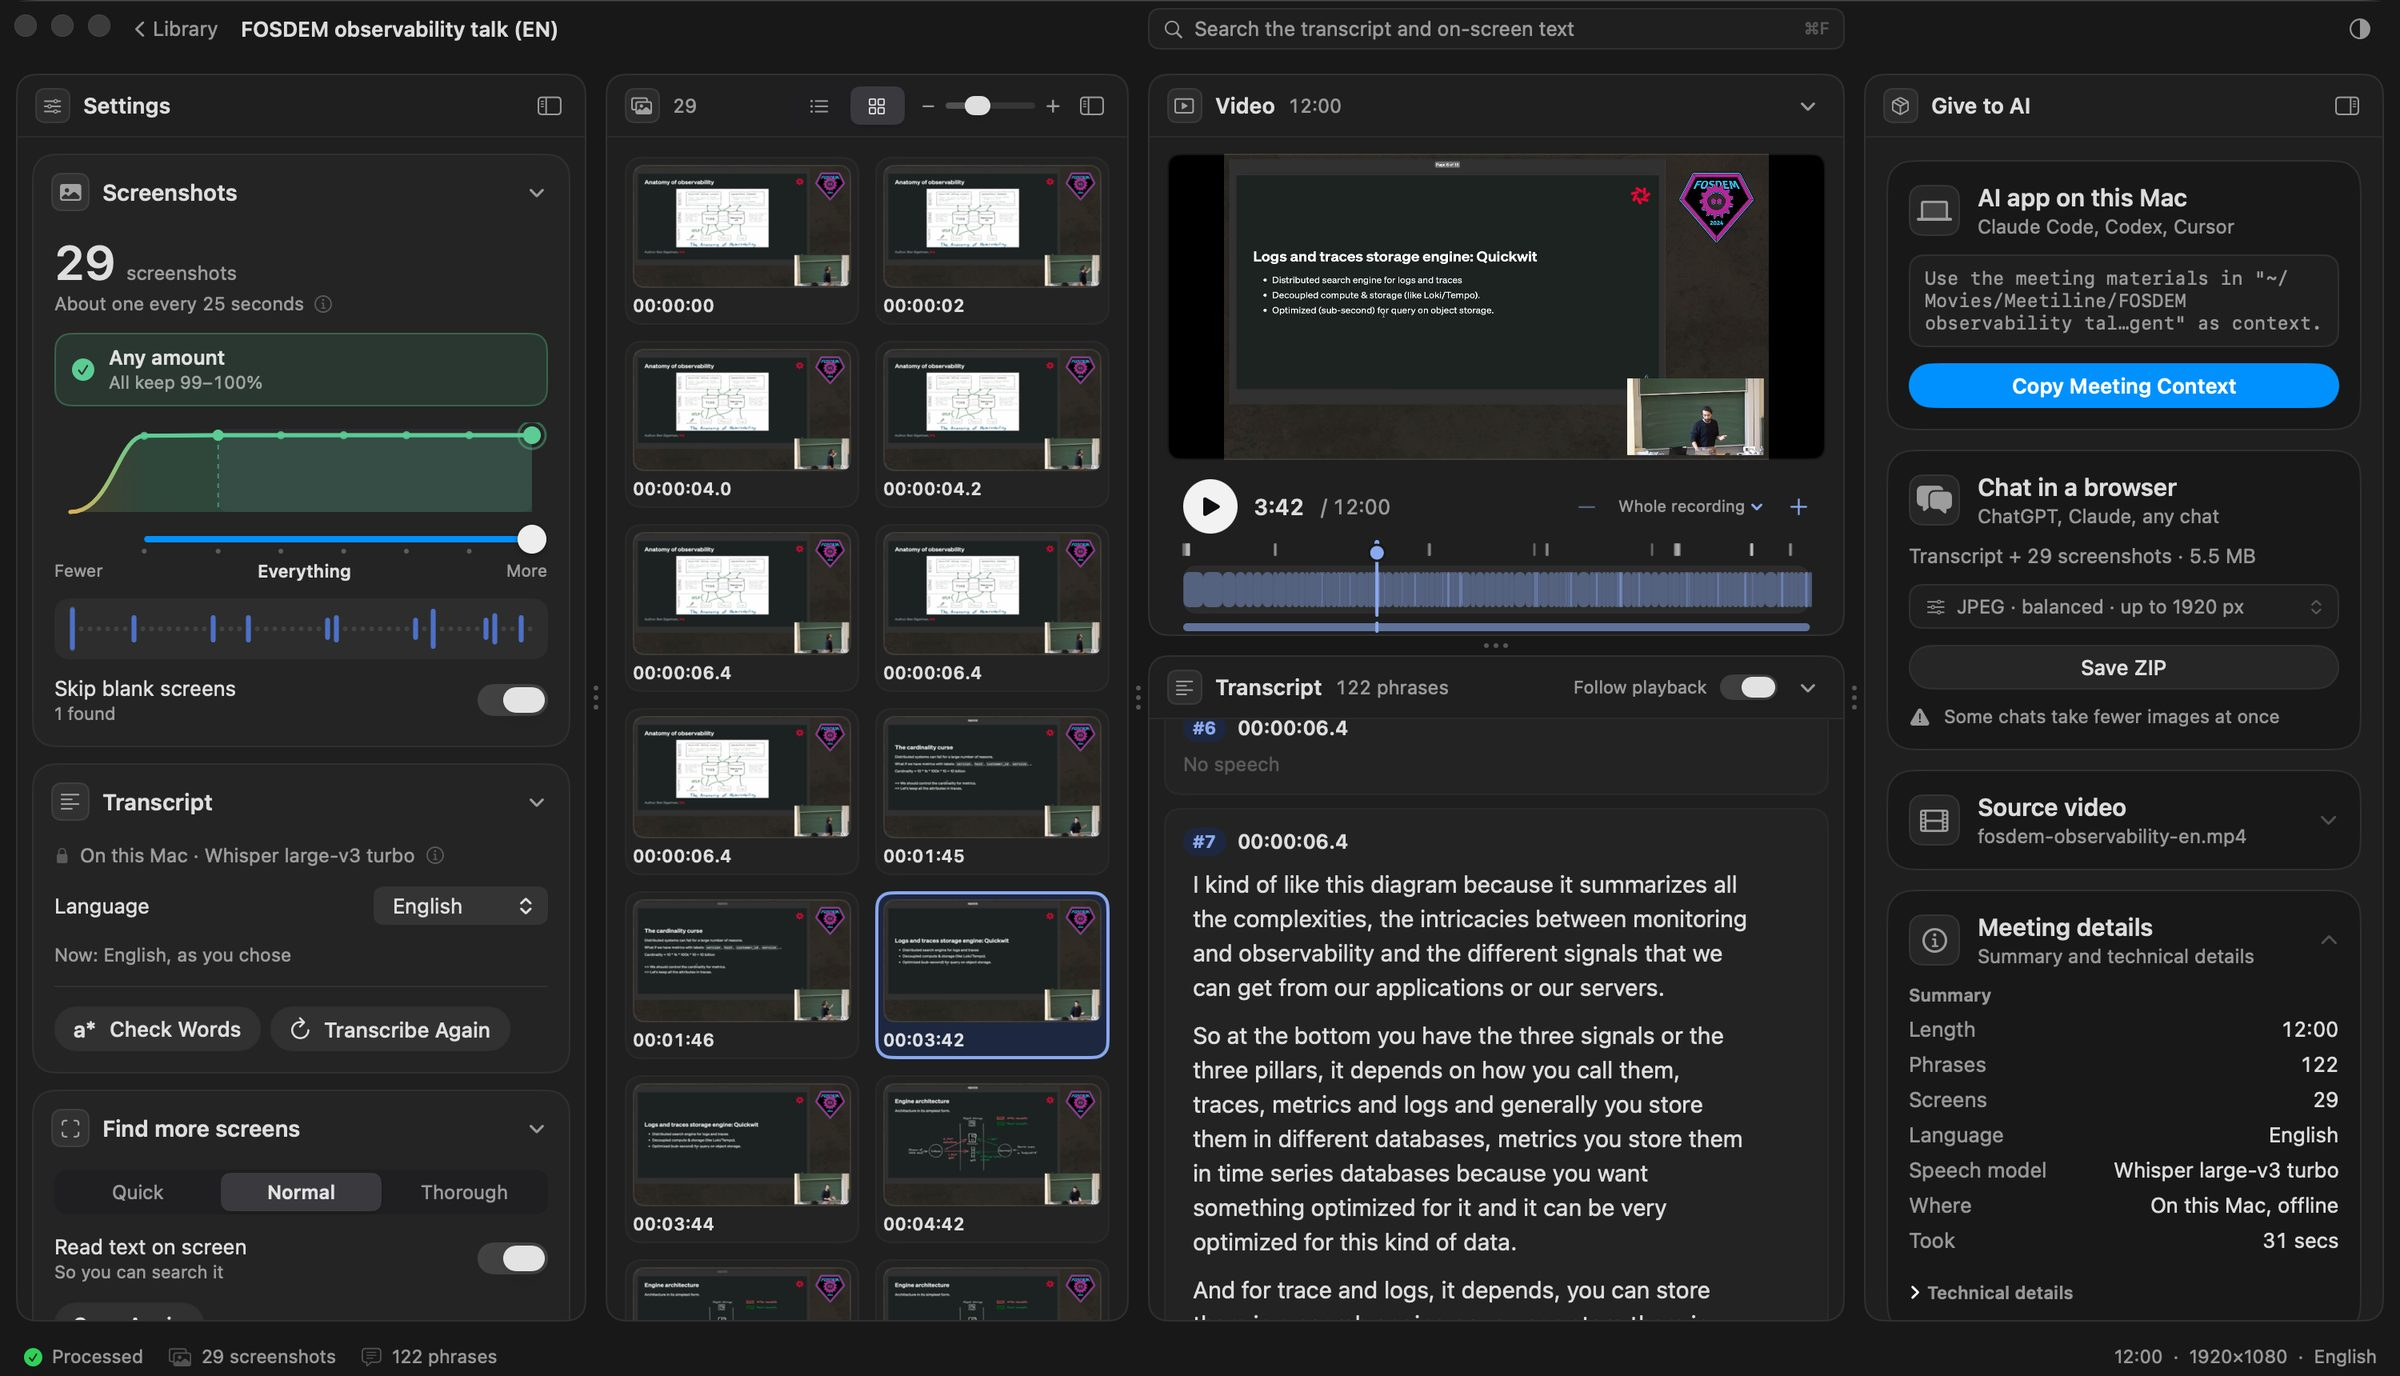
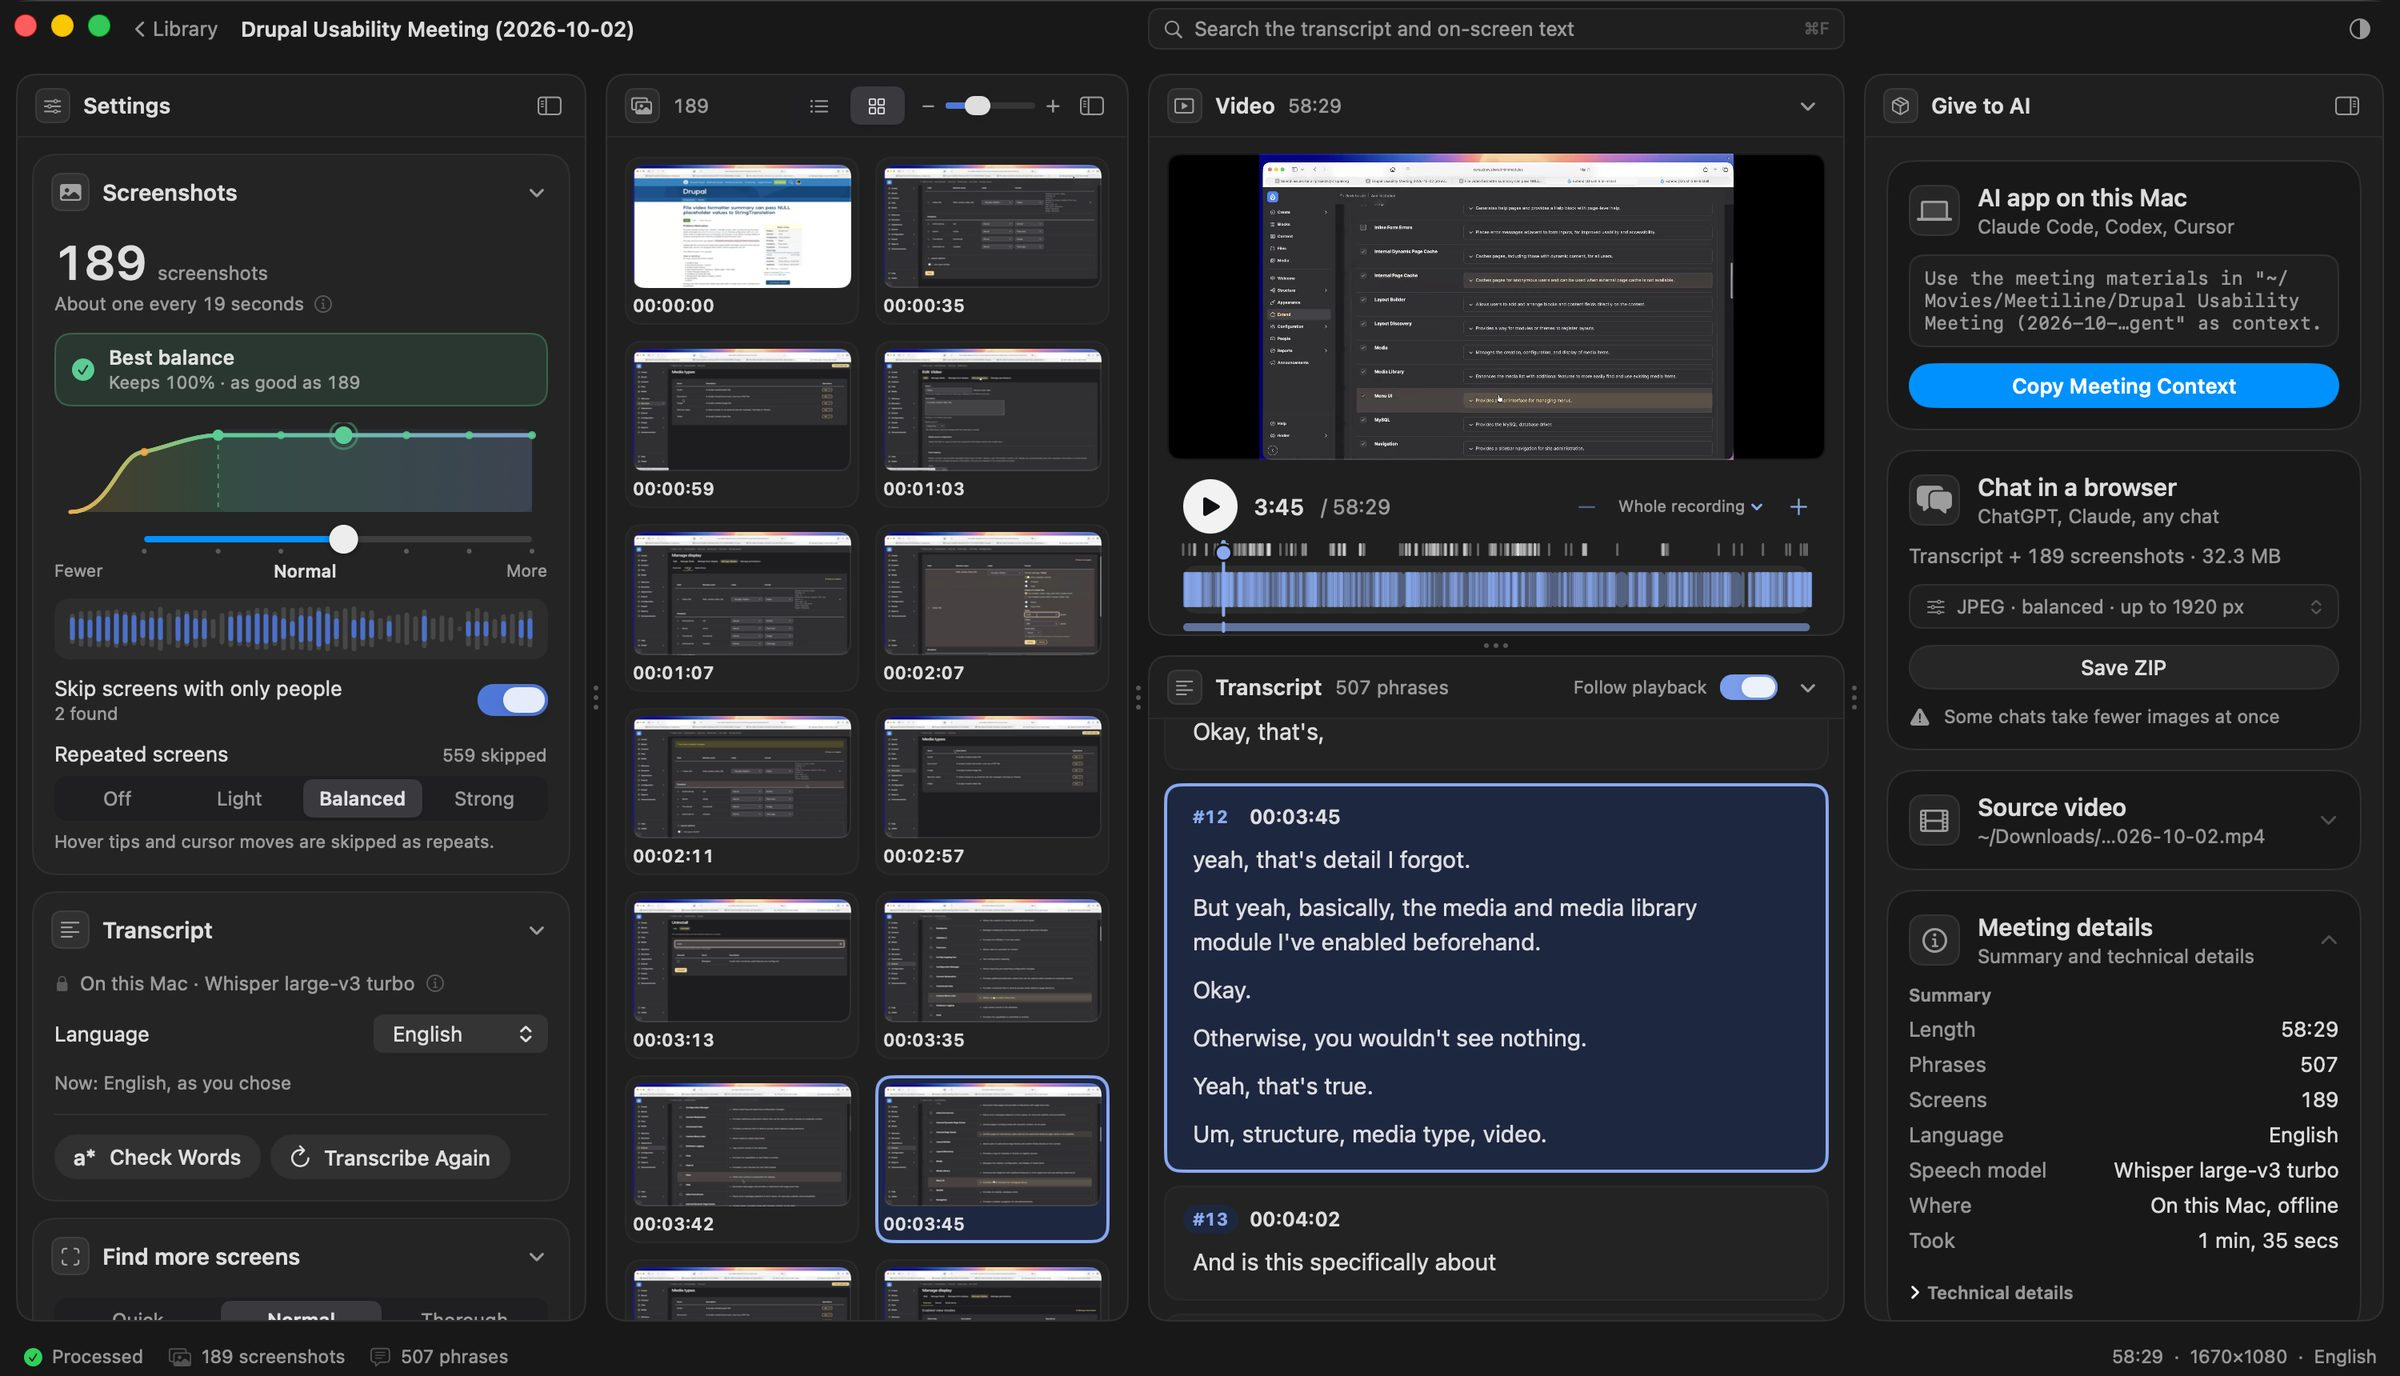
Tour slides from a recorded Drupal usability meeting (CC BY) instead of a conference talk

diff --git a/index.html b/index.html
@@ -185,7 +185,7 @@
     <p class="hint">First time on a Mac? <a href="#install">Here is how to open it.</a></p>
     <figure class="tour" id="tour" aria-roledescription="carousel" aria-label="Meetiline, step by step">
       <div class="tour-frame">
-          <img class="on" src="slides/1-results.jpg" width="2400" height="1376" alt="Screenshots of a conference talk, the video and the transcript under each screenshot, and the Give to AI panel">
+          <img class="on" src="slides/1-results.jpg" width="2400" height="1376" alt="Screenshots of a recorded usability meeting, the video and the transcript under each screenshot, and the Give to AI panel">
           <img src="slides/2-moment.jpg" width="2400" height="1376" alt="A screenshot picked in the list, the video at that moment and the words said around it" loading="lazy">
           <img src="slides/3-words.jpg" width="2400" height="1376" alt="The Check Words window listing doubtful words with suggestions" loading="lazy">
         <button class="tour-arrow prev" type="button" aria-label="Previous"><svg width="18" height="18" viewBox="0 0 24 24" fill="none" stroke="currentColor" stroke-width="2.6" stroke-linecap="round" stroke-linejoin="round" aria-hidden="true"><path d="M15 5l-7 7 7 7"/></svg></button>
@@ -197,7 +197,7 @@
         <button role="tab" type="button" aria-selected="false" tabindex="-1">Click any moment</button>
         <button role="tab" type="button" aria-selected="false" tabindex="-1">Fix what was misheard</button>
       </div>
-      <figcaption class="note">Sample projects: a 12-minute FOSDEM 2024 talk (CC BY 2.0 BE) and a Russian Wikipedia webinar (CC BY-SA 4.0).</figcaption>
+      <figcaption class="note">Sample: <a href="https://youtu.be/3YHPgdA8q4c" target="_blank" rel="noopener">Drupal Usability Meeting, 2 October 2026</a> by Benji Fisher (CC BY), processed by Meetiline.</figcaption>
     </figure>
   </div>
 
